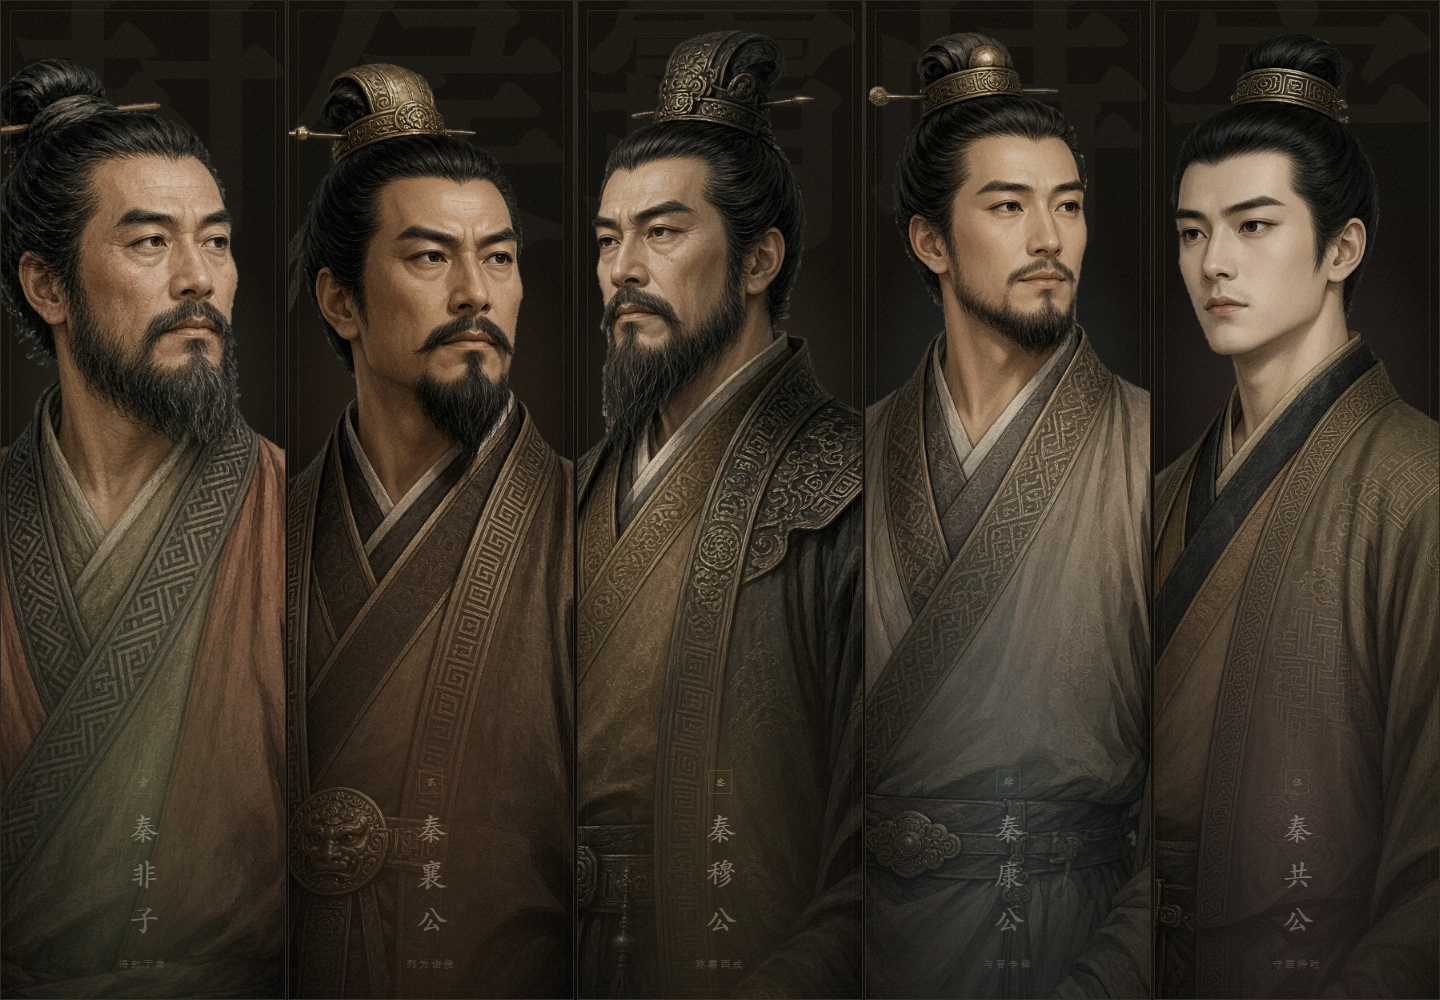
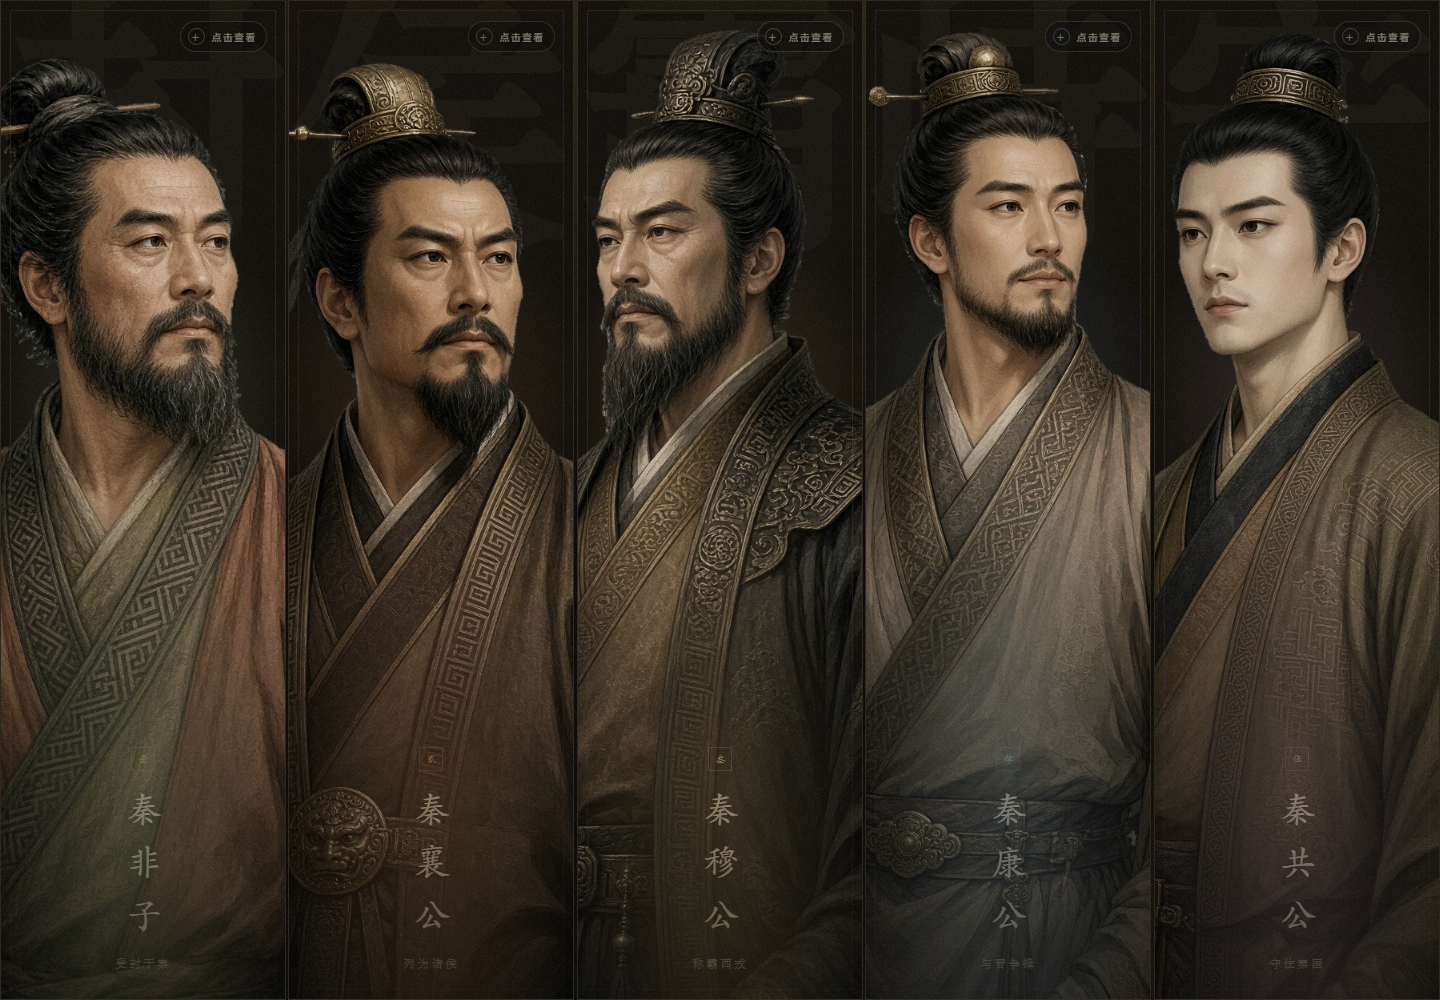
feat: add click cue to ruler cards

diff --git a/styles.css b/styles.css
@@ -1596,6 +1596,22 @@ body.all-visited .coda.in-view .seal {
     font-size: 30px;
   }
 
+  .view-cue {
+    top: 14px;
+    right: 12px;
+    padding: 5px 8px 5px 6px;
+    font-size: 9.5px;
+    opacity: 0.85;
+  }
+
+  .view-cue-desktop {
+    display: none;
+  }
+
+  .view-cue-touch {
+    display: inline;
+  }
+
   .panel {
     min-height: 57%;
     padding: 72px 18px 19px;
@@ -1706,6 +1722,55 @@ body.all-visited .coda.in-view .seal {
 .ruler.is-current::after,
 .ruler:hover::after {
   opacity: 0;
+}
+
+.view-cue {
+  position: absolute;
+  z-index: 6;
+  top: 20px;
+  right: 18px;
+  display: flex;
+  align-items: center;
+  gap: 7px;
+  padding: 6px 10px 6px 7px;
+  color: rgba(238, 226, 202, 0.78);
+  border: 1px solid rgba(var(--accent-rgb), 0.3);
+  border-radius: 999px;
+  background: rgba(10, 9, 7, 0.5);
+  font-family: var(--font-sans);
+  font-size: 10px;
+  letter-spacing: 0.12em;
+  opacity: 0.72;
+  pointer-events: none;
+  transition: opacity 0.3s ease, color 0.3s ease, border-color 0.3s ease, background 0.3s ease, transform 0.3s ease;
+}
+
+.view-cue-plus {
+  display: grid;
+  width: 17px;
+  height: 17px;
+  place-items: center;
+  color: rgba(var(--accent-rgb), 0.95);
+  border: 1px solid rgba(var(--accent-rgb), 0.45);
+  border-radius: 50%;
+  font-family: var(--font-sans);
+  font-size: 13px;
+  font-weight: 300;
+  line-height: 1;
+}
+
+.view-cue-touch {
+  display: none;
+}
+
+.ruler:hover .view-cue,
+.ruler:focus-visible .view-cue,
+.ruler.is-current .view-cue {
+  color: #f3e6ce;
+  border-color: rgba(var(--accent-rgb), 0.62);
+  background: rgba(var(--accent-rgb), 0.13);
+  opacity: 1;
+  transform: translateY(-2px);
 }
 
 .ruler.is-current {
@@ -2517,5 +2582,15 @@ body.spotlight-open {
 
   .dust-mote {
     display: none;
+  }
+}
+
+@media (max-width: 720px) {
+  .view-cue-desktop {
+    display: none;
+  }
+
+  .view-cue-touch {
+    display: inline;
   }
 }

diff --git a/app.js b/app.js
@@ -215,7 +215,7 @@
      ------------------------------------------------------- */
 
   function cardMarkup(r, index) {
-    const label = `${r.name}，${r.era}。将光标停在立绘上查看人物档案。`;
+    const label = `${r.name}，${r.era}。点击或按回车查看完整人物档案。`;
     return `
       <button
         class="ruler"
@@ -231,6 +231,12 @@
           <span class="ghost-glyph" aria-hidden="true">${r.glyph}</span>
           <span class="figure" aria-hidden="true">
             <img src="${r.image}" alt="" width="832" height="1248" draggable="false" decoding="async" />
+          </span>
+
+          <span class="view-cue" aria-hidden="true">
+            <span class="view-cue-plus">+</span>
+            <span class="view-cue-desktop">点击查看</span>
+            <span class="view-cue-touch">轻触查看</span>
           </span>
 
           <span class="spine" aria-hidden="true">
